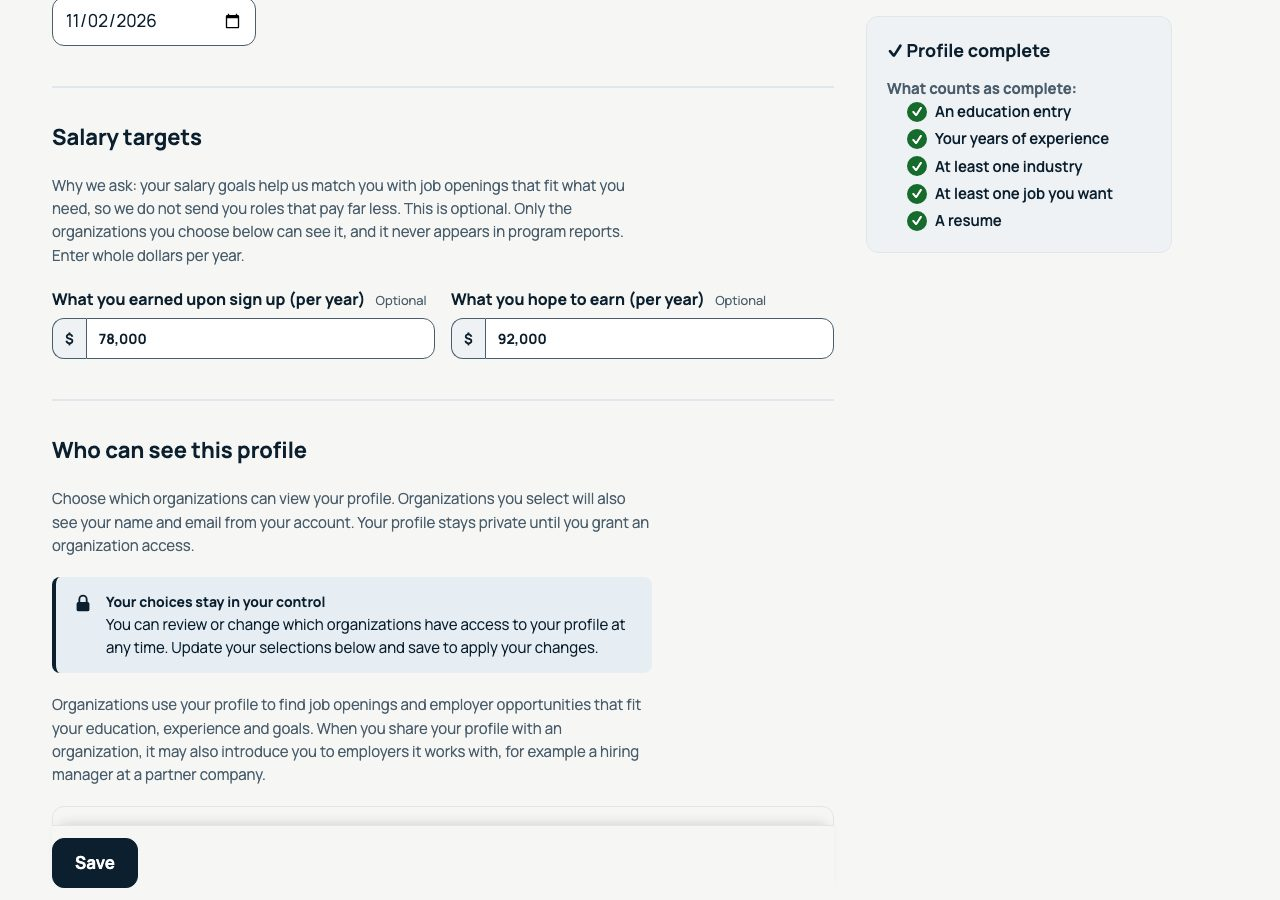
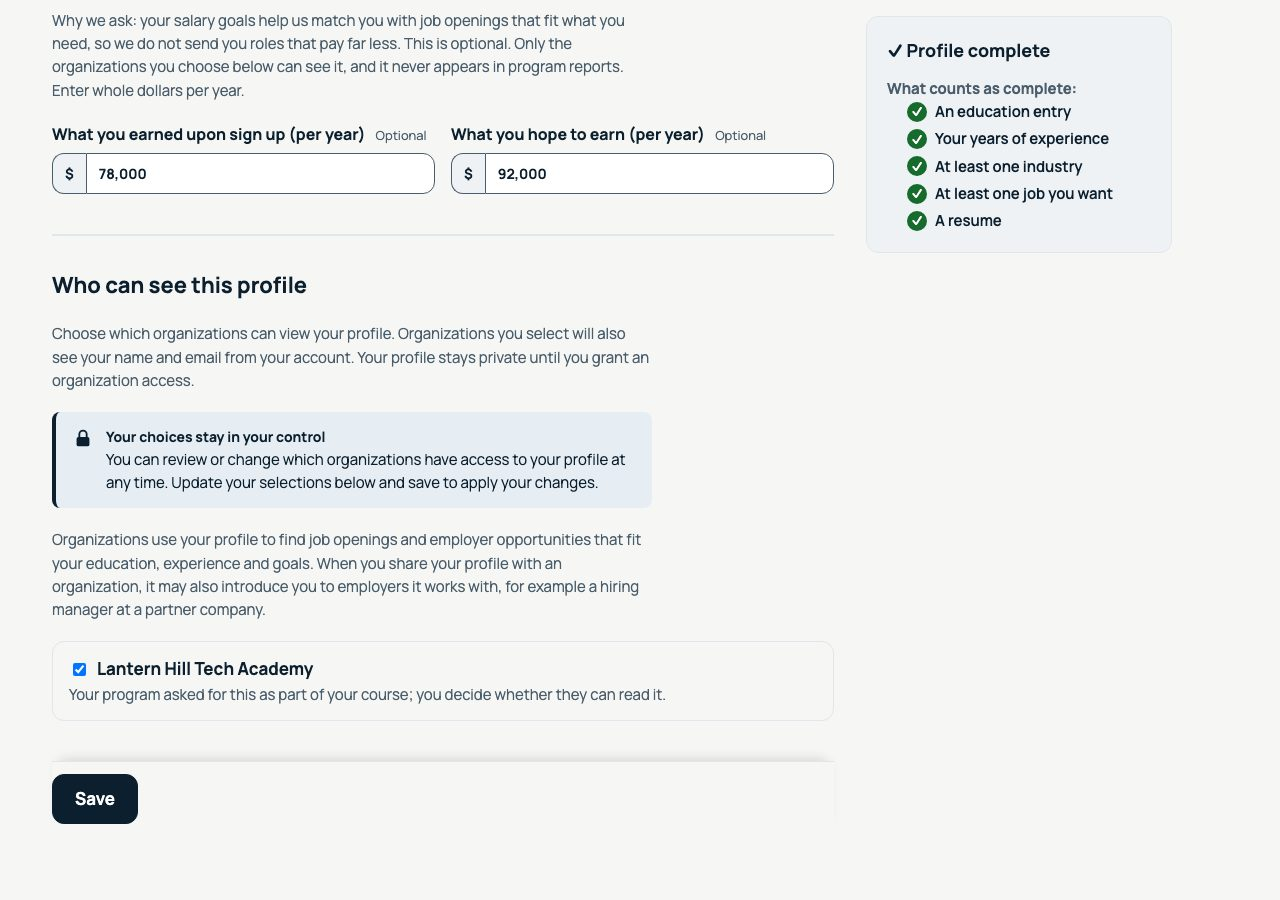
docs: release notes entry text uses the full card width; sharper profile screenshots
Refs #69

Changed region(s): [[0.0312, 0.4667, 0.5, 0.9956], [0.0312, 0.0, 0.5938, 0.4356]]

diff --git a/docs/release-notes/index.html b/docs/release-notes/index.html
@@ -178,11 +178,6 @@
           white-space: normal;
         }
       }
-      .entry p,
-      .entry .know,
-      .entry .links {
-        max-width: 78ch;
-      }
       .tl-month {
         position: relative;
         margin: 14px 0 8px;
